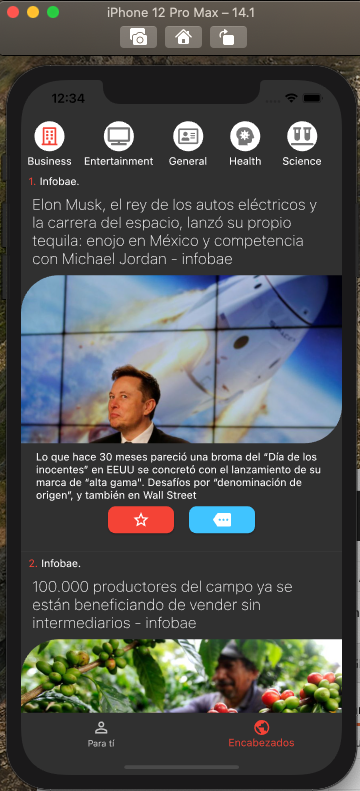
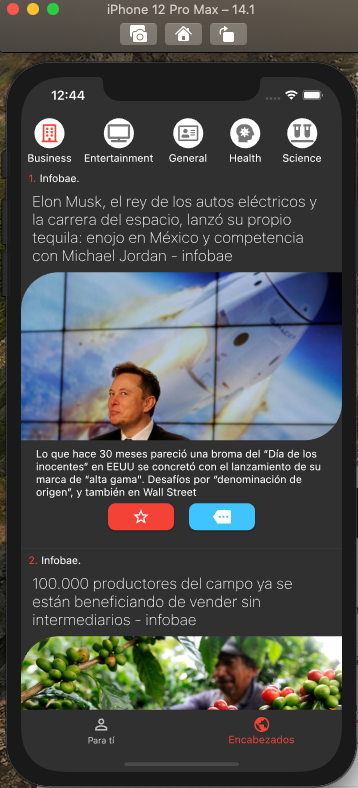
cammbio el color de la appBar

diff --git a/lib/main.dart b/lib/main.dart
@@ -1,4 +1,5 @@
 import 'package:flutter/material.dart';
+import 'package:flutter/services.dart';
 import 'package:noticias/src/pages/tabs_page.dart';
 import 'package:noticias/src/services/news_service.dart';
 import 'package:noticias/src/theme/theme_Dark.dart';
@@ -12,6 +13,10 @@ class MyApp extends StatelessWidget {
   // This widget is the root of your application.
   @override
   Widget build(BuildContext context) {
+    // Cambiar el color de la appBar del dispositivo
+    SystemChrome.setSystemUIOverlayStyle(
+        SystemUiOverlayStyle.light.copyWith(statusBarColor: Colors.white));
+
     return MultiProvider(
       providers: [
         ChangeNotifierProvider(

diff --git a/README.md b/README.md
@@ -2,15 +2,19 @@
 
 Aplicación Noticias, una app sencilla para consumir de la api
 las noticias, en la primer tab obtenemos noticias generales, en el sengudo tab
-tenemos noticias clasificadas por categorias
+tenemos noticias clasificadas por categorias.
 
 ## Principal
 
 ![Aquí la descripción de la imagen por si no carga](https://raw.githubusercontent.com/VictorHugoAguilar/noticias_flutter/main/assets/img/PreviewImagenPrincipal.png)
 
+(Imagen sacada del emulador levantado para el diseño de la app con flutter.)
+
 ## Clasificadas
 
 ![Aquí la descripción de la imagen por si no carga](https://raw.githubusercontent.com/VictorHugoAguilar/noticias_flutter/main/assets/img/PreviewImagenCategorias.png)
+
+(Imagen sacada del emulador levantado para el diseño de la app con flutter.)
 
 ## Getting Started
 
